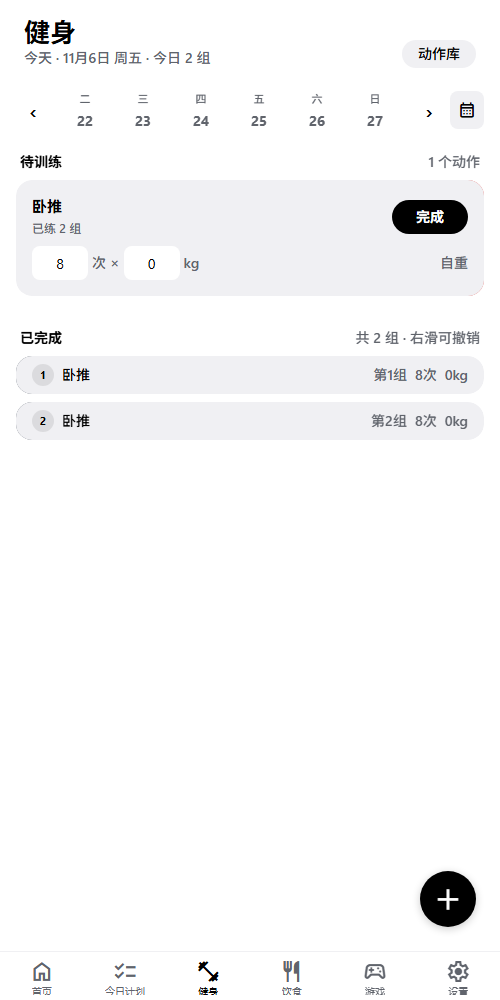
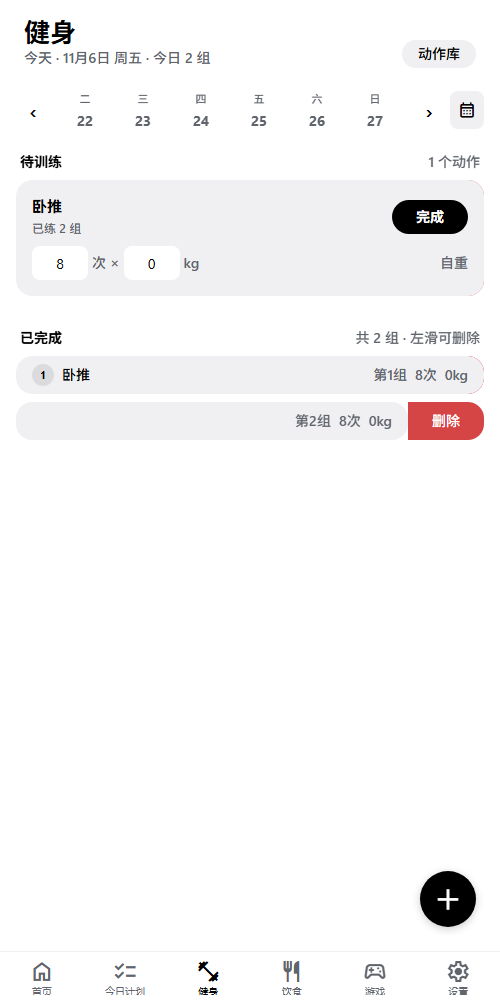
docs: refresh screenshots and README for the new fitness/games/backup behaviour

diff --git a/README.md b/README.md
@@ -22,10 +22,10 @@ npx expo start
 |---|---|
 | 首页 | 今日计划摘要、快速备忘（标签 / 置顶）、健身 / 饮食 / 游戏摘要、迷你月历入口 |
 | 今日计划 | 按天任务：勾选完成、编辑、删除、顺延；可选时间；一次添加到 3 / 7 天 |
-| 健身 | 按部位的动作库（40+ 预置，可自定义）、待训练卡片（次数 × 重量可改）、点「完成」记一组、右滑撤销并重新编号 |
+| 健身 | 按部位的动作库（40+ 预置，可自定义）、待训练卡片（次数 × 重量可改）、点「完成」记一组、已完成组左滑删除并重新编号 |
 | 饮食 | 按早 / 中 / 晚 / 加餐记录，文字 + 可选热量，自动汇总当日总热量 |
-| 游戏 | 想玩清单 → 点「玩了」填写时长 / 体验 / 1~5 星 → 进入已玩记录 |
-| 设置 | 手动备份、导入（整体替换）、清空数据、主题（跟随系统 / 浅色 / 深色） |
+| 游戏 | 想玩清单 → 点「玩了」用滚轮选时长（默认 0）、选游玩日期（默认今天）、填体验与 1~5 星 → 进入已玩记录；列表空白处左右滑动切换两个页签 |
+| 设置 | 健身默认次数 / 重量、手动备份、导入（整体替换）、清空数据、主题（跟随系统 / 浅色 / 深色） |
 | 日历回顾 | 月历四色点（计划蓝 / 健身橙 / 饮食绿 / 游戏紫），点某天看当天全部明细 |
 
 ## 数据与备份
@@ -33,6 +33,7 @@ npx expo start
 - 数据存在本机 SQLite，杀进程、重启后不丢。
 - **备份**：设置 → 备份数据 → 生成 `生活App备份-YYYY-MM-DD.json`（安卓走系统分享面板，自行选保存位置）。
 - **导入**：设置 → 导入备份 → 选文件 → 确认后整体替换；**导入和清空前都会自动备份一份**（安卓在 App 私有目录 `auto-backups/`）。
+- 导入只认文件内容（JSON），不认扩展名：即使备份文件被文件管理器改名成 `.md` 也照样能导入。
 - 换手机：旧手机导出备份 → 通过任意方式把文件传到新手机 → 新手机导入。
 
 ## 测试
@@ -42,7 +43,7 @@ npm test          # 数据层 / 校验 / 备份等单元与集成测试（Vitest
 npm run test:e2e  # 无头 Chrome 跑真实界面流程（需要先启动 http://localhost:8090 的开发服务器）
 ```
 
-E2E 覆盖：今日计划增删改查与持久化、健身打卡与撤销、饮食汇总、游戏「玩了」流程、首页备忘置顶、日历回顾、主题切换与清空数据。
+E2E 覆盖：今日计划增删改查与持久化、健身打卡与左滑删除、饮食汇总、游戏「玩了」流程（滚轮时长 / 游玩日期 / 左右滑动切页签）、首页备忘置顶、日历回顾、健身默认值、主题切换与清空数据。
 
 ## 目录
 
